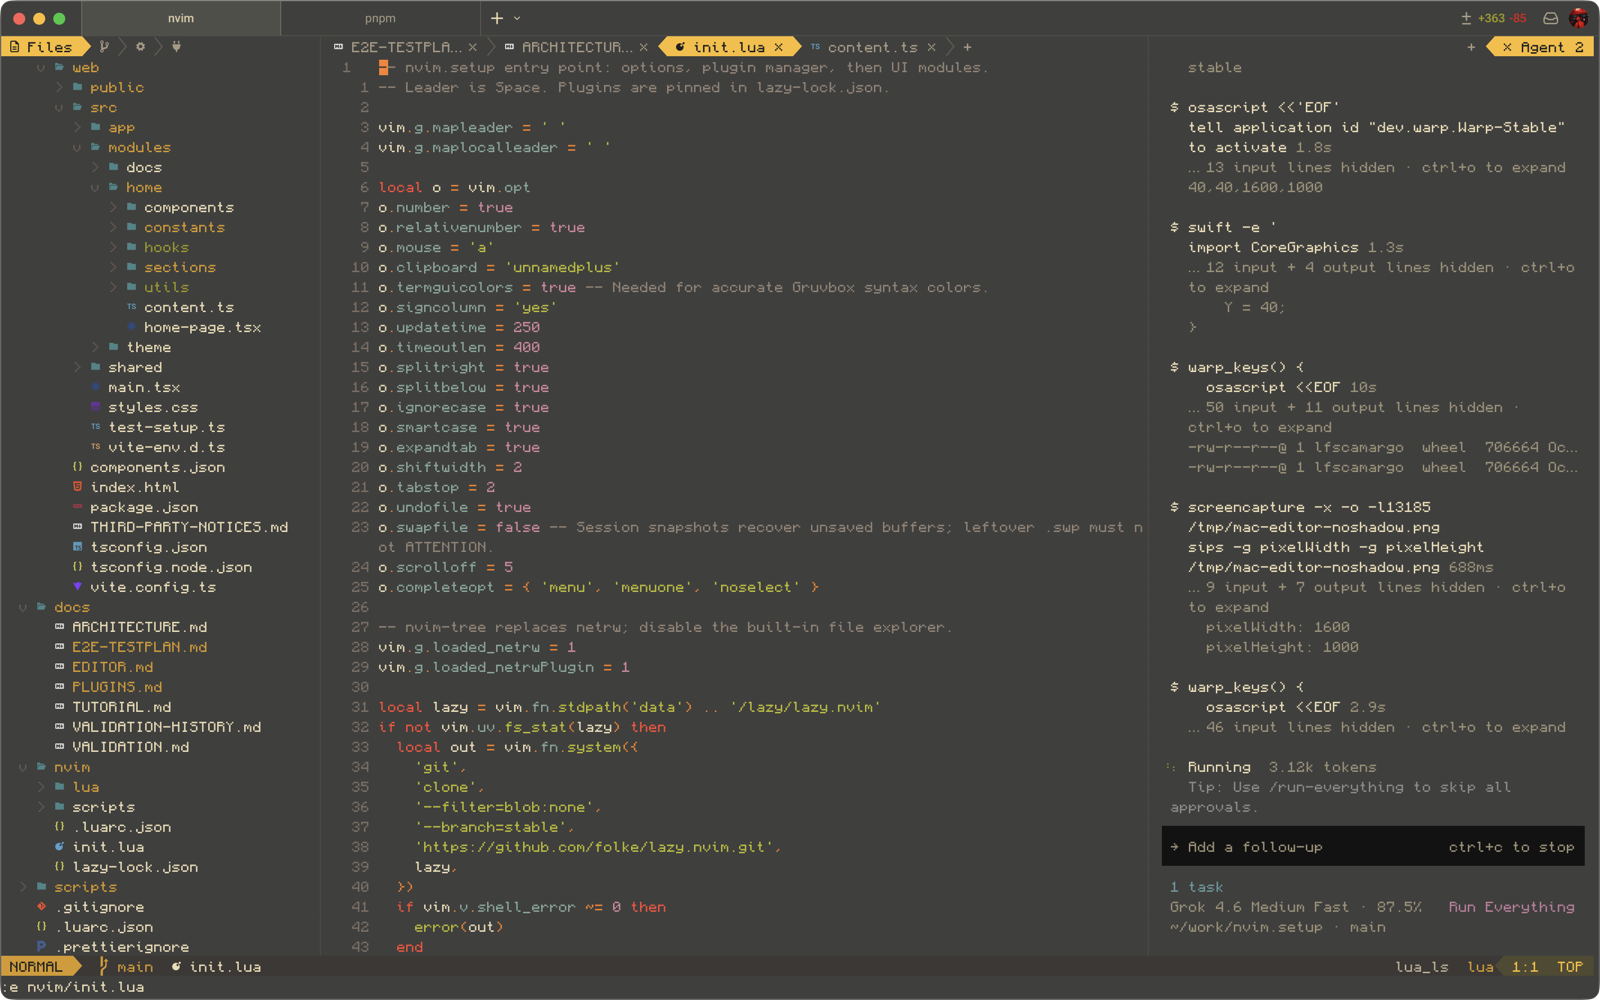
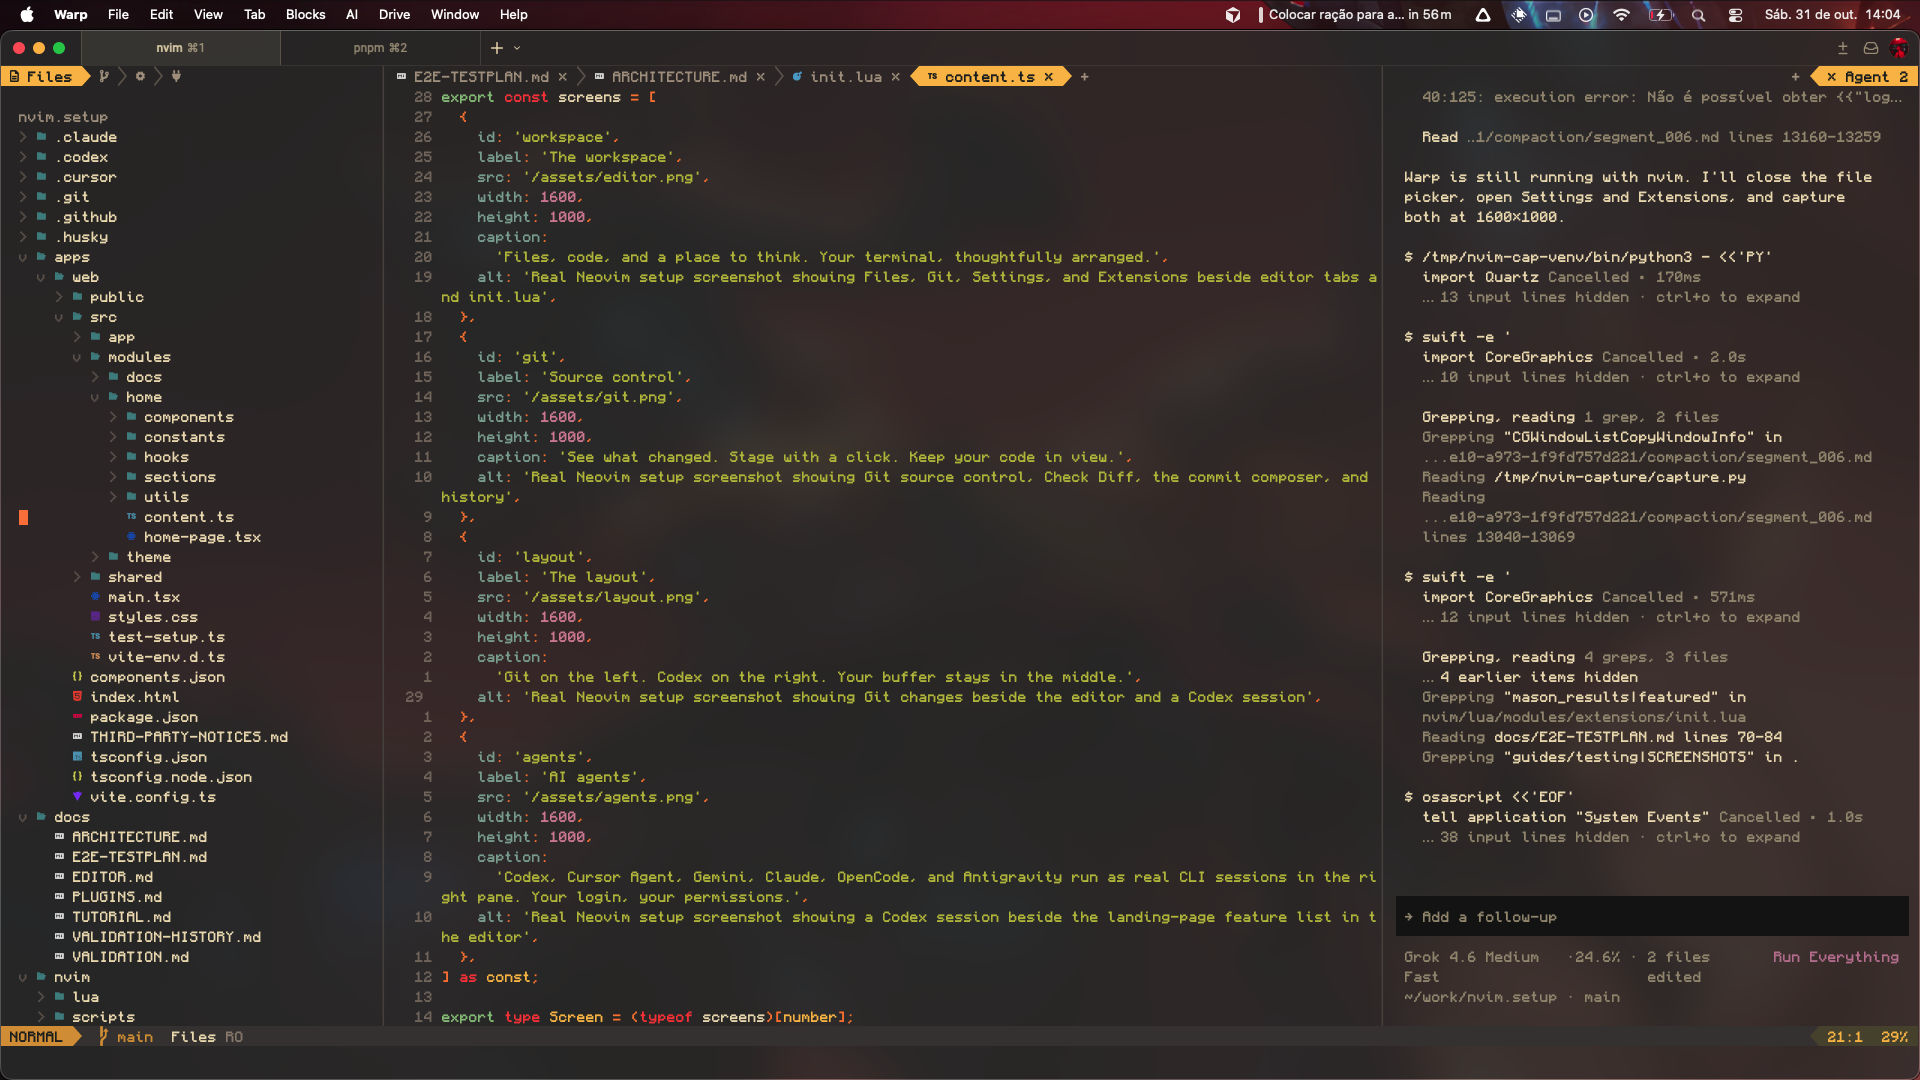
feat(web): add Settings and Extensions landing screenshots
Show the real Warp Settings and Extensions sidebars next to Files and
Git so visitors can see those panes before they install.

diff --git a/apps/web/src/modules/home/content.ts b/apps/web/src/modules/home/content.ts
@@ -3,8 +3,8 @@ export const screens = [
     id: 'workspace',
     label: 'The workspace',
     src: '/assets/editor.png',
-    width: 1600,
-    height: 1000,
+    width: 1920,
+    height: 1080,
     caption:
       'Files, code, and a place to think. Your terminal, thoughtfully arranged.',
     alt: 'Real Neovim setup screenshot showing Files, Git, Settings, and Extensions beside editor tabs and init.lua',
@@ -13,17 +13,37 @@ export const screens = [
     id: 'git',
     label: 'Source control',
     src: '/assets/git.png',
-    width: 1600,
-    height: 1000,
+    width: 1920,
+    height: 1080,
     caption: 'See what changed. Stage with a click. Keep your code in view.',
     alt: 'Real Neovim setup screenshot showing Git source control, Check Diff, the commit composer, and history',
+  },
+  {
+    id: 'settings',
+    label: 'Settings',
+    src: '/assets/settings.png',
+    width: 1920,
+    height: 1080,
+    caption:
+      'Icons, transparency, indent, search, and session restore. Click a row to change it.',
+    alt: 'Real Neovim setup screenshot showing the Settings sidebar with appearance, editing, search, and session preferences',
+  },
+  {
+    id: 'extensions',
+    label: 'Extensions',
+    src: '/assets/extensions.png',
+    width: 1920,
+    height: 1080,
+    caption:
+      'Search Mason packages, see what is installed, and add a GitHub plugin without leaving the sidebar.',
+    alt: 'Real Neovim setup screenshot showing the Extensions marketplace with installed Mason language servers and formatters',
   },
   {
     id: 'layout',
     label: 'The layout',
     src: '/assets/layout.png',
-    width: 1600,
-    height: 1000,
+    width: 1920,
+    height: 1080,
     caption:
       'Git on the left. Codex on the right. Your buffer stays in the middle.',
     alt: 'Real Neovim setup screenshot showing Git changes beside the editor and a Codex session',
@@ -32,11 +52,11 @@ export const screens = [
     id: 'agents',
     label: 'AI agents',
     src: '/assets/agents.png',
-    width: 1600,
-    height: 1000,
+    width: 1920,
+    height: 1080,
     caption:
       'Codex, Cursor Agent, Gemini, Claude, OpenCode, and Antigravity run as real CLI sessions in the right pane. Your login, your permissions.',
-    alt: 'Real Neovim setup screenshot showing a Codex session beside the landing-page feature list in the editor',
+    alt: 'Real Neovim setup screenshot showing Agent, Codex, and Antigravity tabs beside the editor',
   },
 ] as const;
 

diff --git a/apps/web/src/app/__tests__/App.test.tsx b/apps/web/src/app/__tests__/App.test.tsx
@@ -106,6 +106,34 @@ describe('landing page visitor paths', () => {
     expect(within(dialog).getByText('Source control')).toBeTruthy();
     fireEvent.click(screen.getByRole('button', { name: 'Close screenshot' }));
     await waitFor(() => expect(screen.queryByRole('dialog')).toBeNull());
+    fireEvent.click(screen.getByRole('button', { name: 'Settings' }));
+    expect(
+      screen
+        .getByRole('button', { name: 'Settings' })
+        .getAttribute('aria-pressed'),
+    ).toBe('true');
+    fireEvent.click(
+      screen.getByRole('button', { name: 'Enlarge settings screenshot' }),
+    );
+    expect(
+      screen.getByRole('dialog').querySelector('img')?.getAttribute('src'),
+    ).toBe('/assets/settings.png');
+    fireEvent.click(screen.getByRole('button', { name: 'Close screenshot' }));
+    await waitFor(() => expect(screen.queryByRole('dialog')).toBeNull());
+    fireEvent.click(screen.getByRole('button', { name: 'Extensions' }));
+    expect(
+      screen
+        .getByRole('button', { name: 'Extensions' })
+        .getAttribute('aria-pressed'),
+    ).toBe('true');
+    fireEvent.click(
+      screen.getByRole('button', { name: 'Enlarge extensions screenshot' }),
+    );
+    expect(
+      screen.getByRole('dialog').querySelector('img')?.getAttribute('src'),
+    ).toBe('/assets/extensions.png');
+    fireEvent.click(screen.getByRole('button', { name: 'Close screenshot' }));
+    await waitFor(() => expect(screen.queryByRole('dialog')).toBeNull());
     fireEvent.click(screen.getByRole('button', { name: 'The layout' }));
     expect(
       screen

diff --git a/scripts/e2e/web-browser.spec.ts b/scripts/e2e/web-browser.spec.ts
@@ -119,6 +119,26 @@ test('installation, screenshots, help and keyboard access work', async ({
   await page.screenshot({ path: 'test-results/screenshot-dialog.png' });
   await page.keyboard.press('Escape');
   await expect(page.getByRole('dialog')).toHaveCount(0);
+  await page.getByRole('button', { name: 'Settings', exact: true }).click();
+  await page
+    .getByRole('button', { name: 'Enlarge settings screenshot' })
+    .click();
+  await expect(page.getByRole('dialog').locator('img')).toHaveAttribute(
+    'src',
+    '/assets/settings.png',
+  );
+  await page.keyboard.press('Escape');
+  await expect(page.getByRole('dialog')).toHaveCount(0);
+  await page.getByRole('button', { name: 'Extensions', exact: true }).click();
+  await page
+    .getByRole('button', { name: 'Enlarge extensions screenshot' })
+    .click();
+  await expect(page.getByRole('dialog').locator('img')).toHaveAttribute(
+    'src',
+    '/assets/extensions.png',
+  );
+  await page.keyboard.press('Escape');
+  await expect(page.getByRole('dialog')).toHaveCount(0);
   await page.getByRole('button', { name: 'The layout', exact: true }).click();
   await page
     .getByRole('button', { name: 'Enlarge the layout screenshot' })

diff --git a/apps/web/public/guides/testing.md b/apps/web/public/guides/testing.md
@@ -70,7 +70,7 @@ New behavior must fail in e2e without the patch. Prefer driving the UI (keys, mo
 | Context menus for Git right click and Shift+F10, file/folder actions, editor/chat/sidebar tabs, and Esc dismissal            | The Git block in `e2e.lua`; tree API stubs in `e2e-init.lua`                                                                                          |
 | File type icons in the Files tree or Git sidebar                                                                             | The Git block in `e2e.lua` (tree_icons + extension glyphs + colored icons, git-only names); extra files in `e2e.sh`                                   |
 | Devicons only (no Ctrl+Shift+I / `:IconTheme`)                                                                               | The Devicons PASS in `e2e.lua` after Git; stubs in `e2e-init.lua`                                                                                     |
-| nvim-tree Files draw / `web_devicons.folder` / root folder label                                                             | The Git and icon-theme blocks in `e2e.lua` (`tree_icons_safe`, project-name `root_folder_label`)                                                       |
+| nvim-tree Files draw / `web_devicons.folder` / root folder label                                                             | The Git and icon-theme blocks in `e2e.lua` (`tree_icons_safe`, project-name `root_folder_label`)                                                      |
 | Editor pane lifetime (`:q`, no tabs)                                                                                         | The Git block in `e2e.lua` after opening a file or commit                                                                                             |
 | Ctrl+P / Ctrl+F / fzf-lua file open                                                                                          | The Ctrl+P tab block in `e2e.lua` after the Git PASS                                                                                                  |
 | Image files open in the system viewer (`open` / `xdg-open`) and stay out of the editor                                       | The image PASS in `e2e.lua`; stubbed opener in `e2e-init.lua` and fake `open`/`xdg-open` plus `photo.png` in `e2e.sh`                                 |
@@ -88,6 +88,7 @@ New behavior must fail in e2e without the patch. Prefer driving the UI (keys, mo
 | A bug fix                                                                                                                    | A case that fails without the patch (same user path); add a coverage-matrix row                                                                       |
 | `scripts/bootstrap.sh` or the public curl install one-liner                                                                  | `scripts/shell/__tests__/bootstrap.test.sh` and the landing-page command copy                                                                         |
 | Landing-page setup version picker or `bootstrap.sh --version`                                                                | `apps/web/src/modules/home/utils/__tests__/releases.test.ts`, the App.test version case, and the bootstrap `--version` cases                          |
+| Landing-page screenshot set (Files, Git, Settings, Extensions, layout, agents)                                               | `apps/web/src/app/__tests__/App.test.tsx` lightbox case and the Playwright screenshot tabs                                                            |
 | Icon fonts (`scripts/fonts.sh`) or Warp/Kitty font fallbacks                                                                 | `scripts/shell/__tests__/fonts.test.sh`                                                                                                               |
 | Baking one-cell Nerd Font glyphs into the Warp primary font (`scripts/python/overlay_fonts.py`)                              | `scripts/shell/__tests__/fonts.test.sh` overlay case (Devicons, pixel Powerline glyphs, family name, cmap, one-cell metrics)                          |
 | Landing-page header icons/type switch black/white from backdrop grayscale (>50% → black)                                     | `apps/web/src/shared/utils/__tests__/contrast.test.tsx` gutter-vs-screenshot case and Playwright overlap cases                                        |
@@ -128,7 +129,7 @@ Keep this file aligned with the tests. If you delete a case from `e2e.lua`, dele
 
 `node --test scripts/tests/workspace.test.mjs` checks that Nx and package scripts point to the shell tests in `scripts/shell/__tests__/`, that the moved tests resolve the repository root, that the Neovim E2E files exist, that Playwright points at `scripts/e2e/web-browser.spec.ts`, and that `apps/web/src/shared/` files live under `components/`, `hooks/`, `utils/`, or `constants/`. `pnpm test:workspace` runs this check plus the bootstrap, font, scan, format, and bump shell suites. The root `scripts/*.sh` commands are stable entry points for the implementations in `scripts/shell/`; this keeps `make install`, bootstrap, CI, and documented commands working after the folder move.
 
-`pnpm --filter web test` typechecks the landing page and runs its Vitest visitor-path suite, including the on-site `/docs` reader, documentation and install code samples, Settings / Extensions / context-menu feature cards, the workspace / Git / layout / AI agents screenshot tabs, header type contrast over the real backdrop (screenshot fills, install band), light/dark theme switchers, light-mode hero chrome (thin caret, dark screenshot rims), local-tool install docs on the install band, the screenshot lightbox chrome, unique home/docs titles with Open Graph and JSON-LD, and the infinite principles marquee (two equal halves, copies sized to the viewport). `pnpm test:web:e2e` runs the landing page's browser checks, screenshot lightbox, documentation sidebar, theme switching, nav type following the backdrop behind the glass (not a painted white/black shell), light-mode readability of the hero, feature cards, and docs, unique titles plus robots/sitemap for search engines, a documentation URL that still loads after refresh, and that the marquee track stays wider than the viewport with `animation-iteration-count: infinite`. `pnpm format:check` fails when Prettier or Tailwind class order is stale. GitHub Actions runs those format, typecheck, and build steps plus Semgrep; the visitor-path and Playwright suites stay on the machine. These are separate from the simulated Neovim UI suite.
+`pnpm --filter web test` typechecks the landing page and runs its Vitest visitor-path suite, including the on-site `/docs` reader, documentation and install code samples, Settings / Extensions / context-menu feature cards, the workspace / Git / Settings / Extensions / layout / AI agents screenshot tabs, header type contrast over the real backdrop (screenshot fills, install band), light/dark theme switchers, light-mode hero chrome (thin caret, dark screenshot rims), local-tool install docs on the install band, the screenshot lightbox chrome, unique home/docs titles with Open Graph and JSON-LD, and the infinite principles marquee (two equal halves, copies sized to the viewport). `pnpm test:web:e2e` runs the landing page's browser checks, screenshot lightbox, documentation sidebar, theme switching, nav type following the backdrop behind the glass (not a painted white/black shell), light-mode readability of the hero, feature cards, and docs, unique titles plus robots/sitemap for search engines, a documentation URL that still loads after refresh, and that the marquee track stays wider than the viewport with `animation-iteration-count: infinite`. `pnpm format:check` fails when Prettier or Tailwind class order is stale. GitHub Actions runs those format, typecheck, and build steps plus Semgrep; the visitor-path and Playwright suites stay on the machine. These are separate from the simulated Neovim UI suite.
 
 # Settings, extensions, and command palette
 

diff --git a/docs/E2E-TESTPLAN.md b/docs/E2E-TESTPLAN.md
@@ -88,6 +88,7 @@ New behavior must fail in e2e without the patch. Prefer driving the UI (keys, mo
 | A bug fix                                                                                                                    | A case that fails without the patch (same user path); add a coverage-matrix row                                                                       |
 | `scripts/bootstrap.sh` or the public curl install one-liner                                                                  | `scripts/shell/__tests__/bootstrap.test.sh` and the landing-page command copy                                                                         |
 | Landing-page setup version picker or `bootstrap.sh --version`                                                                | `apps/web/src/modules/home/utils/__tests__/releases.test.ts`, the App.test version case, and the bootstrap `--version` cases                          |
+| Landing-page screenshot set (Files, Git, Settings, Extensions, layout, agents)                                               | `apps/web/src/app/__tests__/App.test.tsx` lightbox case and the Playwright screenshot tabs                                                            |
 | Icon fonts (`scripts/fonts.sh`) or Warp/Kitty font fallbacks                                                                 | `scripts/shell/__tests__/fonts.test.sh`                                                                                                               |
 | Baking one-cell Nerd Font glyphs into the Warp primary font (`scripts/python/overlay_fonts.py`)                              | `scripts/shell/__tests__/fonts.test.sh` overlay case (Devicons, pixel Powerline glyphs, family name, cmap, one-cell metrics)                          |
 | Landing-page header icons/type switch black/white from backdrop grayscale (>50% → black)                                     | `apps/web/src/shared/utils/__tests__/contrast.test.tsx` gutter-vs-screenshot case and Playwright overlap cases                                        |
@@ -128,7 +129,7 @@ Keep this file aligned with the tests. If you delete a case from `e2e.lua`, dele
 
 `node --test scripts/tests/workspace.test.mjs` checks that Nx and package scripts point to the shell tests in `scripts/shell/__tests__/`, that the moved tests resolve the repository root, that the Neovim E2E files exist, that Playwright points at `scripts/e2e/web-browser.spec.ts`, and that `apps/web/src/shared/` files live under `components/`, `hooks/`, `utils/`, or `constants/`. `pnpm test:workspace` runs this check plus the bootstrap, font, scan, format, and bump shell suites. The root `scripts/*.sh` commands are stable entry points for the implementations in `scripts/shell/`; this keeps `make install`, bootstrap, CI, and documented commands working after the folder move.
 
-`pnpm --filter web test` typechecks the landing page and runs its Vitest visitor-path suite, including the on-site `/docs` reader, documentation and install code samples, Settings / Extensions / context-menu feature cards, the workspace / Git / layout / AI agents screenshot tabs, header type contrast over the real backdrop (screenshot fills, install band), light/dark theme switchers, light-mode hero chrome (thin caret, dark screenshot rims), local-tool install docs on the install band, the screenshot lightbox chrome, unique home/docs titles with Open Graph and JSON-LD, and the infinite principles marquee (two equal halves, copies sized to the viewport). `pnpm test:web:e2e` runs the landing page's browser checks, screenshot lightbox, documentation sidebar, theme switching, nav type following the backdrop behind the glass (not a painted white/black shell), light-mode readability of the hero, feature cards, and docs, unique titles plus robots/sitemap for search engines, a documentation URL that still loads after refresh, and that the marquee track stays wider than the viewport with `animation-iteration-count: infinite`. `pnpm format:check` fails when Prettier or Tailwind class order is stale. GitHub Actions runs those format, typecheck, and build steps plus Semgrep; the visitor-path and Playwright suites stay on the machine. These are separate from the simulated Neovim UI suite.
+`pnpm --filter web test` typechecks the landing page and runs its Vitest visitor-path suite, including the on-site `/docs` reader, documentation and install code samples, Settings / Extensions / context-menu feature cards, the workspace / Git / Settings / Extensions / layout / AI agents screenshot tabs, header type contrast over the real backdrop (screenshot fills, install band), light/dark theme switchers, light-mode hero chrome (thin caret, dark screenshot rims), local-tool install docs on the install band, the screenshot lightbox chrome, unique home/docs titles with Open Graph and JSON-LD, and the infinite principles marquee (two equal halves, copies sized to the viewport). `pnpm test:web:e2e` runs the landing page's browser checks, screenshot lightbox, documentation sidebar, theme switching, nav type following the backdrop behind the glass (not a painted white/black shell), light-mode readability of the hero, feature cards, and docs, unique titles plus robots/sitemap for search engines, a documentation URL that still loads after refresh, and that the marquee track stays wider than the viewport with `animation-iteration-count: infinite`. `pnpm format:check` fails when Prettier or Tailwind class order is stale. GitHub Actions runs those format, typecheck, and build steps plus Semgrep; the visitor-path and Playwright suites stay on the machine. These are separate from the simulated Neovim UI suite.
 
 # Settings, extensions, and command palette
 

diff --git a/apps/web/public/assets/SCREENSHOTS.md b/apps/web/public/assets/SCREENSHOTS.md
@@ -1,7 +1,7 @@
 # Application screenshots
 
-`editor.png`, `git.png`, `layout.png`, and `agents.png` are photographs of the actual Neovim setup running in Warp on this repository, taken on 2026-10-31. Each image is 1600 × 1000 (16:10, a Mac display proportion) and shows the full Warp window.
+`editor.png`, `git.png`, `settings.png`, `extensions.png`, `layout.png`, and `agents.png` are photographs of the actual Neovim setup running in Warp on this repository, taken on 2026-10-31. Each image is 1920 × 1080 (16:9) and shows the full Warp window.
 
-The Files view shows the nvim-tree sidebar (project name, then Files / Git / Settings / Extensions), editor tabs, and `nvim/init.lua`. The Git view shows source control with Check Diff, the commit composer, and history beside open buffers. The layout view is the same three-pane arrangement: Git, the mid editor, and chat. The AI agents view shows a live session beside `apps/web/src/modules/home/content.ts`. No mockups or generated pictures.
+The Files view shows the nvim-tree sidebar (project name, then Files / Git / Settings / Extensions), editor tabs, and open buffers. The Git view shows source control with Check Diff, the commit composer, and history. Settings shows appearance, editing, search, and session preferences. Extensions shows the Mason marketplace with installed language servers and formatters. The layout view is the same three-pane arrangement as Git: sidebar, the mid editor, and chat. The AI agents view shows Agent, Codex, and Antigravity tabs beside the editor. No mockups or generated pictures.
 
 These captures include the real chat CLIs. No credentials are in the frames.
